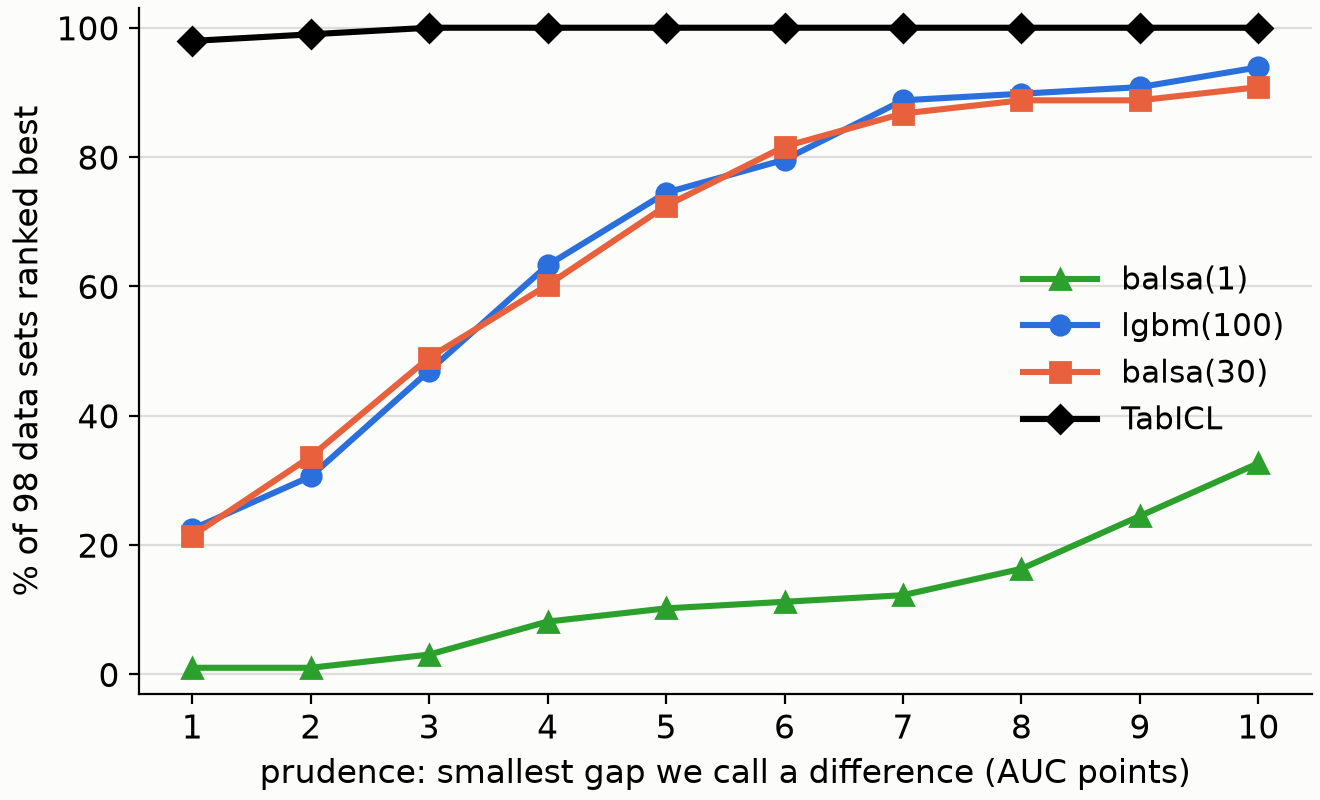
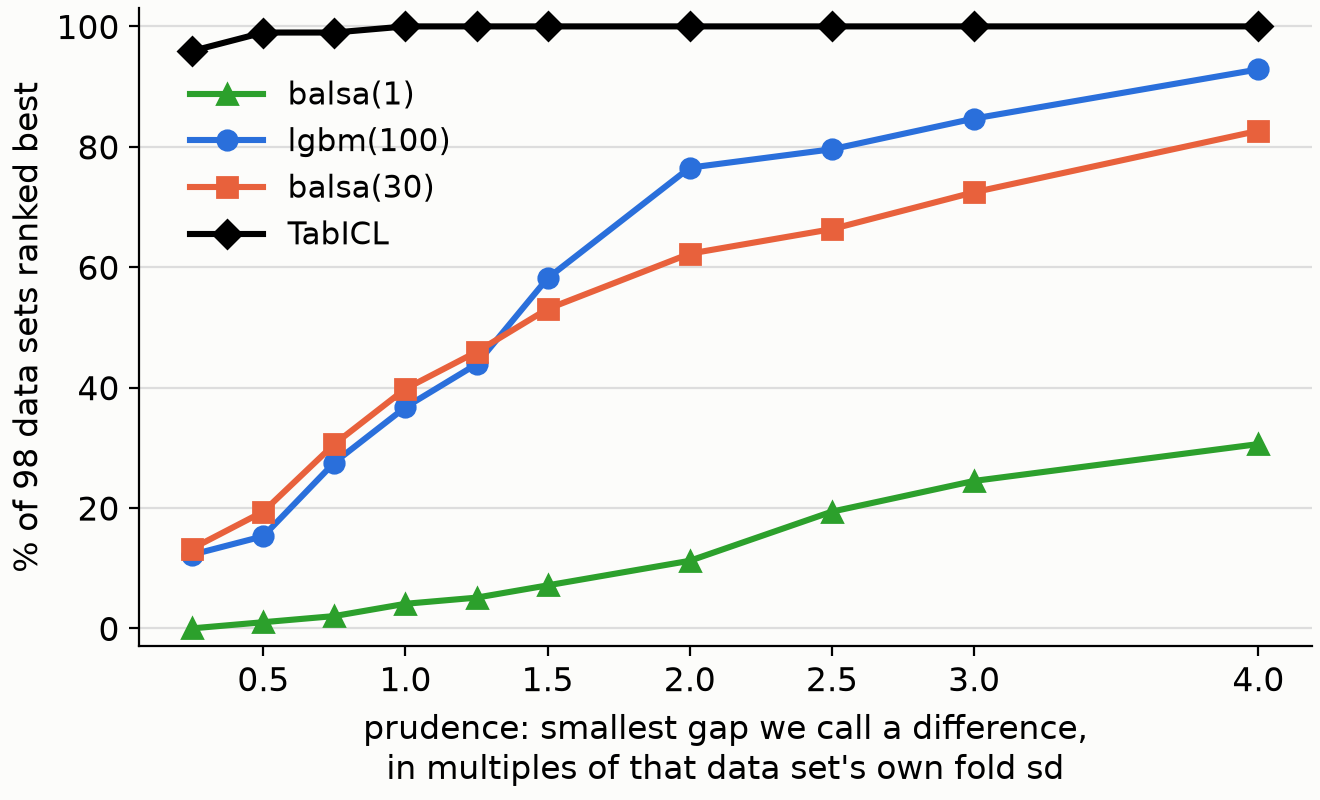
prudence.py: measure prudence in per-set fold sds

diff --git a/prudence.py b/prudence.py
@@ -4,8 +4,17 @@ prudence floor rises from 1 to 10 AUC points.
 
 Prudence is balsa_eg.yue's floor on an effect: two arms whose mean AUCs
 differ by less than it are never called different, whatever cohen, cliffs
-and ks say.  At 1 point the ranking is almost all signal; by 10 points
-almost everything ties, and the curves say how fast that happens.
+and ks say.  Here that floor is measured in standard deviations, not in AUC
+points, because a point is worth different amounts on different data sets:
+the per-set fold sd runs from 0.31 to 14.18 points, a 45-fold spread, so one
+absolute threshold is strict on a quiet set and vacuous on a noisy one.
+
+WHICH sd matters.  Dividing the gap by the POOLED sd of the two arms being
+compared gives Cohen's d exactly (checked: the two agree to 0.0), so that
+choice would merely restate the cohen test already inside `same`.  The
+denominator here is instead a property of the DATA SET: the mean over arms
+of that set's fold spread, (p90-p10)/2.56, which is the dashed line in the
+AUC figures.  So x=2 reads "a gap under two of this set's own fold sds".
 
 The statistics below are a line-for-line port of balsa_eg.yue, NOT a stats
 library, so this chart and the rig agree by construction.  One wrinkle: the
@@ -19,7 +28,7 @@ import matplotlib; matplotlib.use("Agg")
 import matplotlib.pyplot as plt
 
 EPS, CLIFF, KS = 0.35, 0.195, 1.36      # balsa_eg.yue's thresholds
-PRU = range(1, 11)
+PRU = [0.25, 0.5, 0.75, 1, 1.25, 1.5, 2, 2.5, 3, 4]   # in set sds
 # name, key in the .txt, colour and marker: the same ink as the AUC figures
 ARMS = [("balsa(1)",  "1:q16",  "#2ca02c", "^"),
         ("lgbm(100)", "lgbm",   "#2a6fdb", "o"),
@@ -75,6 +84,13 @@ def rank(d, prudence):                  # [(name, folds)...] -> {name: rank}
   return out
 
 
+def spread(v):
+  "The sd the AUC figures draw: a robust (p90-p10)/2.56 over the folds."
+  v = sorted(v); n = len(v)
+  q = lambda p: v[min(n - 1, int(p * n))]
+  return (q(.9) - q(.1)) / 2.56
+
+
 def folds(path):
   "Every %folds line: set -> arm -> the 10 fold AUCs."
   out = {}
@@ -89,25 +105,30 @@ def main():
   sets = []
   for path in sys.argv[1:-1]:
     sets += list(folds(path).values())
+  sd = [max(1e-9, st.fmean([spread(s[a]) for _, a, _, _ in ARMS])) for s in sets]
   pcts = {a: [] for _, a, _, _ in ARMS}
   for p in PRU:
-    for s in sets:
-      rk = rank([(a, s[a]) for _, a, _, _ in ARMS], p)
+    got = {a: 0 for _, a, _, _ in ARMS}
+    for s, v in zip(sets, sd):
+      rk = rank([(a, s[a]) for _, a, _, _ in ARMS], p * v)   # p sds, this set
       for _, a, _, _ in ARMS:
-        if len(pcts[a]) < p: pcts[a].append(0)
-        pcts[a][p - 1] += 100 * (rk[a] == 1) / len(sets)
+        got[a] += rk[a] == 1
+    for _, a, _, _ in ARMS: pcts[a].append(100 * got[a] / len(sets))
+  print(f"per-set fold sd (AUC points): median "
+        f"{st.median(sd):.2f}, range {min(sd):.2f}-{max(sd):.2f}")
   # drawn at 2x a one-column figure, so a 12pt label prints at 6pt
   f, ax = plt.subplots(figsize=(6.6, 4.0))
   for name, a, c, m in ARMS:
-    ax.plot(list(PRU), pcts[a], color=c, marker=m, lw=2.2, ms=7, label=name)
-  ax.set_xlabel("prudence: smallest gap we call a difference (AUC points)",
-                fontsize=12)
+    ax.plot(PRU, pcts[a], color=c, marker=m, lw=2.2, ms=7, label=name)
+  ax.set_xlabel("prudence: smallest gap we call a difference,\n"
+                "in multiples of that data set's own fold sd", fontsize=12)
   ax.set_ylabel(f"% of {len(sets)} data sets ranked best", fontsize=12)
-  ax.set_xticks(list(PRU)); ax.set_ylim(-3, 103); ax.set_yticks(range(0, 101, 20))
+  ax.set_xticks([0.5, 1, 1.5, 2, 2.5, 3, 4]); ax.set_ylim(-3, 103); ax.set_yticks(range(0, 101, 20))
   ax.tick_params(labelsize=12)
   ax.grid(axis="y", color="#ddd")
   for s in ("top", "right"): ax.spines[s].set_visible(False)
-  ax.legend(fontsize=11, frameon=False, loc="center right", handlelength=2.4)
+  ax.legend(fontsize=11, frameon=False, loc="upper left",
+            bbox_to_anchor=(.02, .93), handlelength=2.4)
   f.set_facecolor("#fcfcfa"); ax.set_facecolor("#fcfcfa")
   f.tight_layout(pad=.3)
   f.savefig(sys.argv[-1], dpi=200)
